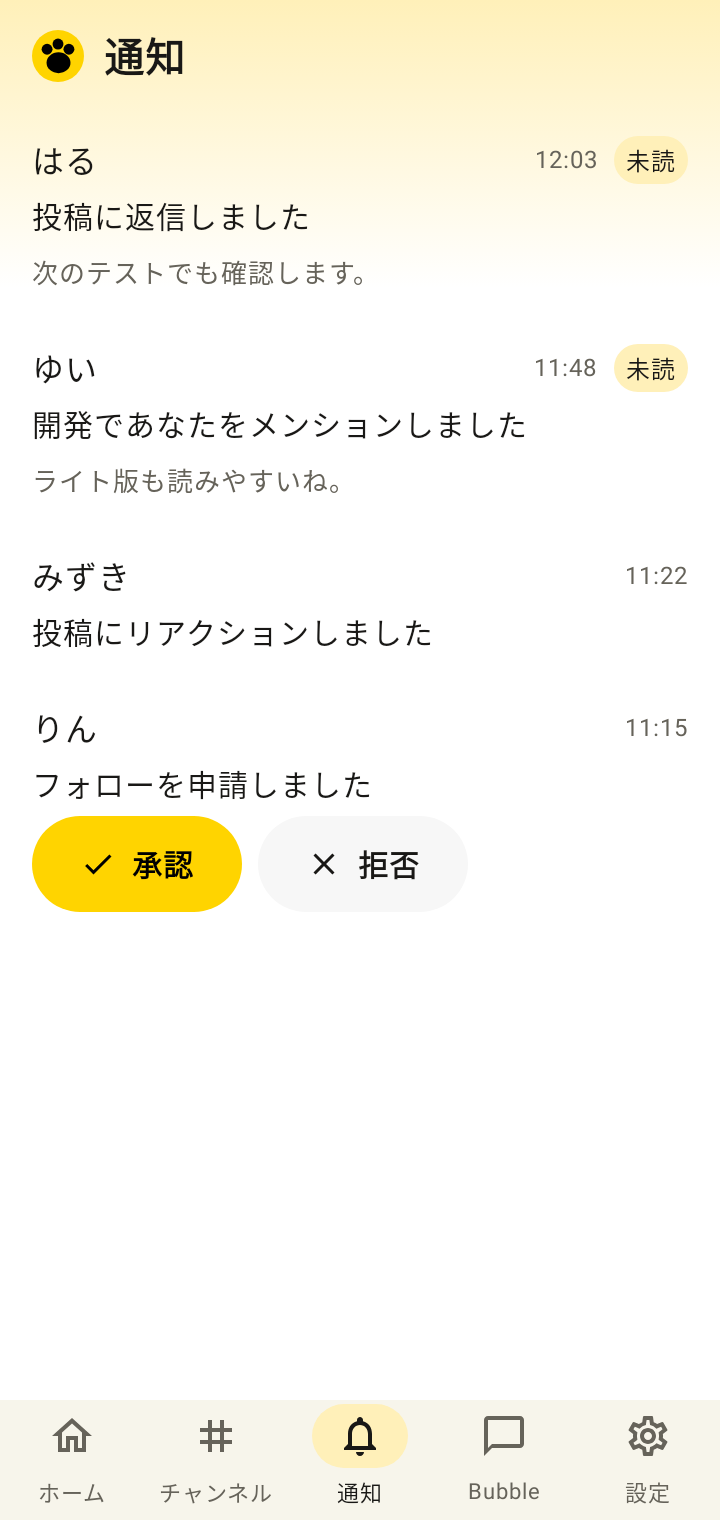
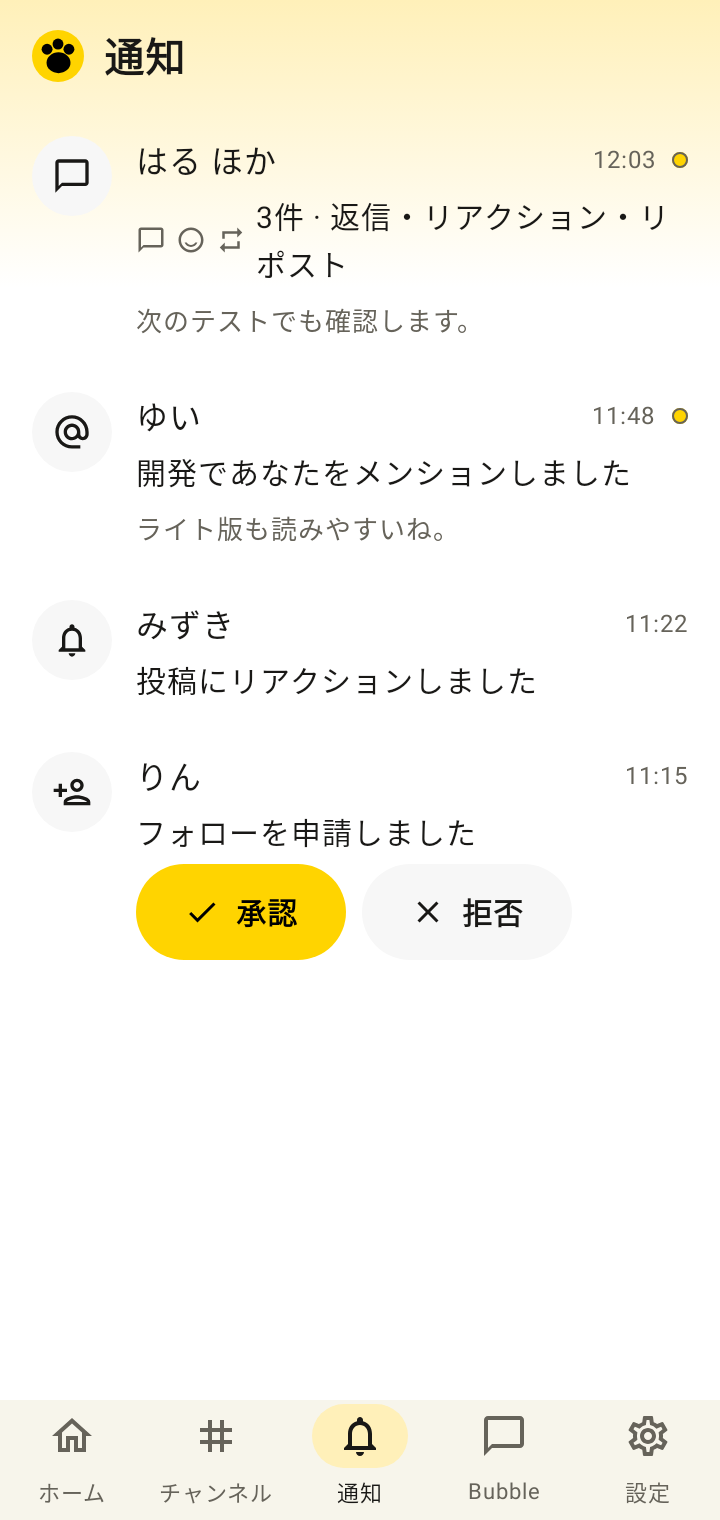
Android の通知を投稿ごとにまとめアイコンと未読ドットを表示する

diff --git a/frontend-compose/androidApp/src/main/kotlin/zoo/android/ui/NotificationPage.kt b/frontend-compose/androidApp/src/main/kotlin/zoo/android/ui/NotificationPage.kt
@@ -1,6 +1,8 @@
 package zoo.android.ui
 
+import androidx.compose.foundation.Image
 import androidx.compose.foundation.background
+import androidx.compose.foundation.border
 import androidx.compose.foundation.clickable
 import androidx.compose.foundation.layout.*
 import androidx.compose.foundation.lazy.LazyColumn
@@ -9,7 +11,13 @@ import androidx.compose.foundation.lazy.rememberLazyListState
 import androidx.compose.foundation.shape.CircleShape
 import androidx.compose.material3.Text
 import androidx.compose.runtime.*
+import androidx.compose.ui.Alignment
 import androidx.compose.ui.Modifier
+import androidx.compose.ui.draw.clip
+import androidx.compose.ui.graphics.ImageBitmap
+import androidx.compose.ui.layout.ContentScale
+import androidx.compose.ui.semantics.contentDescription
+import androidx.compose.ui.semantics.semantics
 import androidx.compose.ui.unit.dp
 import androidx.compose.ui.unit.sp
 import kotlinx.coroutines.delay
@@ -23,13 +31,17 @@ internal data class InboxItem(
     val unread: Boolean,
     val target: String? = null,
     val followActor: String? = null, val followActivity: String? = null,
+    val kinds: List<String> = emptyList(), val avatar: String? = null, val unreadIds: List<String> = emptyList(),
 )
 
+@OptIn(ExperimentalLayoutApi::class)
 @Composable
 internal fun NotificationPage(
     items: List<InboxItem>,
     foreground: Boolean,
     colors: AndroidColors,
+    nextCursor: String?,
+    loadAvatar: suspend (String) -> ImageBitmap?,
     onViewed: (String) -> Unit,
     onOpen: (String) -> Unit,
     loadMore: () -> Unit,
@@ -49,40 +61,65 @@ internal fun NotificationPage(
     }
     val nextPage by rememberUpdatedState(loadMore)
     val lastVisible = items.lastOrNull()?.id?.takeIf { it in visible }
-    LaunchedEffect(lastVisible, foreground) {
-        if (foreground && lastVisible != null) nextPage()
+    LaunchedEffect(lastVisible, foreground, nextCursor) {
+        if (foreground && lastVisible != null && nextCursor != null) nextPage()
     }
     val viewed by rememberUpdatedState(onViewed)
     LazyColumn(state = scroll, modifier = Modifier.fillMaxSize(), contentPadding = PaddingValues(horizontal = 16.dp)) {
         items(items, key = { it.id }) { item ->
             val shouldRead = foreground && item.unread && item.id in visible
-            LaunchedEffect(item.id, shouldRead) {
+            LaunchedEffect(item.id, shouldRead, item.unreadIds) {
                 if (shouldRead) {
                     delay(500)
                     viewed(item.id)
                 }
             }
             val target = item.target
-            Column(Modifier.fillMaxWidth()
+            Row(Modifier.fillMaxWidth()
                 .then(if (target != null) Modifier.clickable { onOpen(target) } else Modifier)
-                .padding(vertical = 12.dp), verticalArrangement = Arrangement.spacedBy(4.dp)) {
-                Row(horizontalArrangement = Arrangement.spacedBy(8.dp)) {
-                    Text(item.author, Modifier.weight(1f), color = colors.foreground, fontWeight = AndroidWeights.userName)
-                    Text(item.time, color = colors.secondary, fontSize = 12.sp)
-                    if (item.unread) {
-                        Text("未読", Modifier.background(colors.headerLight, CircleShape).padding(horizontal = 6.dp),
-                            color = colors.foreground, fontSize = 12.sp)
+                .padding(vertical = 12.dp), horizontalArrangement = Arrangement.spacedBy(12.dp)) {
+                val avatar by key(item.avatar) {
+                    produceState<ImageBitmap?>(null, foreground) {
+                        value = if (foreground) item.avatar?.let { loadAvatar(it) } else null
                     }
                 }
-                Text(item.summary, color = colors.foreground, fontSize = 15.sp)
-                item.detail?.let { Text(it, color = colors.secondary, fontSize = 13.sp) }
-                if (item.followActor != null && item.followActivity != null) {
-                    Row(horizontalArrangement = Arrangement.spacedBy(8.dp)) {
-                        TextAction("承認", colors, icon = UiIcon.Check) { respond(item.followActor, item.followActivity, true) }
-                        TextAction("拒否", colors, icon = UiIcon.Close, style = TextActionStyle.Neutral) { respond(item.followActor, item.followActivity, false) }
+                Box(Modifier.size(40.dp).clip(CircleShape).background(colors.inputSurface),
+                    contentAlignment = Alignment.Center) {
+                    val bitmap = avatar
+                    if (bitmap != null) Image(bitmap, null, Modifier.fillMaxSize(), contentScale = ContentScale.Crop)
+                    else UiGlyph(item.kinds.firstOrNull().activityIcon(), colors.foreground, iconSize = 20.dp)
+                }
+                Column(Modifier.weight(1f), verticalArrangement = Arrangement.spacedBy(4.dp)) {
+                    Row(horizontalArrangement = Arrangement.spacedBy(8.dp), verticalAlignment = Alignment.CenterVertically) {
+                        Text(item.author, Modifier.weight(1f), color = colors.foreground, fontWeight = AndroidWeights.userName)
+                        Text(item.time, color = colors.secondary, fontSize = 12.sp)
+                        if (item.unread) Box(Modifier.size(8.dp).background(colors.accent, CircleShape)
+                            .border(1.dp, colors.secondary, CircleShape).semantics { contentDescription = "未読" })
+                    }
+                    Row(verticalAlignment = Alignment.CenterVertically, horizontalArrangement = Arrangement.spacedBy(5.dp)) {
+                        if (avatar != null || item.kinds.size > 1) {
+                            item.kinds.forEach { UiGlyph(it.activityIcon(), colors.secondary, iconSize = 15.dp) }
+                        }
+                        Text(item.summary, color = colors.foreground, fontSize = 15.sp)
+                    }
+                    item.detail?.let { Text(it, color = colors.secondary, fontSize = 13.sp) }
+                    if (item.followActor != null && item.followActivity != null) {
+                        androidx.compose.foundation.layout.FlowRow(horizontalArrangement = Arrangement.spacedBy(8.dp)) {
+                            TextAction("承認", colors, icon = UiIcon.Check) { respond(item.followActor, item.followActivity, true) }
+                            TextAction("拒否", colors, icon = UiIcon.Close, style = TextActionStyle.Neutral) { respond(item.followActor, item.followActivity, false) }
+                        }
                     }
                 }
             }
         }
     }
+}
+
+private fun String?.activityIcon(): UiIcon = when (this) {
+    "like" -> UiIcon.Emoji
+    "reply", "dm" -> UiIcon.Bubble
+    "mention" -> UiIcon.AlternateEmail
+    "repost" -> UiIcon.Repost
+    "follow_request", "follow_accepted" -> UiIcon.UserAdd
+    else -> UiIcon.Bell
 }

diff --git a/frontend-compose/src/commonMain/kotlin/zoo/NotificationInbox.kt b/frontend-compose/src/commonMain/kotlin/zoo/NotificationInbox.kt
@@ -8,42 +8,82 @@ data class NotificationDisplay(
     val time: String,
     val unread: Boolean,
     val target: String? = null,
-    val followActor: String? = null, val followActivity: String? = null,
+    val followActor: String? = null,
+    val followActivity: String? = null,
+    val kinds: List<String> = emptyList(),
+    val avatar: String? = null,
+    val unreadIds: List<String> = emptyList(),
 )
 
+private fun UnifiedNotificationEntry.representative(): Row = item ?: channel!!.first()
+
+internal fun inboxGroups(entries: List<UnifiedNotificationEntry>): Map<String, List<UnifiedNotificationEntry>> =
+    entries.groupBy { entry ->
+        val row = entry.representative()
+        val target = if (entry.item == null) row.text("message_id")
+            else row.text("target_post_id").ifBlank { row.text("post_id") }
+        if (target.isBlank()) entry.key else "post-group:$target"
+    }
+
 class NotificationInbox(private val session: Session) {
+    val nextCursor: String? get() = session.activityPubNotifications.nextCursor
+
     fun snapshot(): List<NotificationDisplay> {
         val users = session.repo.users.rows.value.associateBy { it.text("id") }
-        return feed().entries.map { entry ->
-            val item = entry.item ?: entry.channel!!.first()
+        return inboxGroups(feed().entries).map { (id, entries) ->
+            val latest = entries.first()
+            val item = latest.representative()
+            val rows = entries.flatMap { it.channel ?: listOf(it.representative()) }
+            val actor = item.nested("display_data").nested("actor")
             val actorId = item.text("actor_id").removePrefix("local:")
-            val name = item.text("display_name").ifBlank {
-                users[actorId]?.let { it.text("display_name").ifBlank { it.text("user_name") } }
-                    .orEmpty().ifBlank { actorId }
+            val name = item.text("display_name").ifBlank { actor.text("display_name") }.ifBlank {
+                users[actorId]?.let(::author).orEmpty().ifBlank { actor.text("user_name").ifBlank { actorId } }
             }
-            val kind = when (item.text("kind").ifBlank { item.text("notification_type") }) {
-                "reaction" -> "like"
-                else -> item.text("kind").ifBlank { item.text("notification_type") }
+            val kinds = rows.map(::noticeKind).distinct()
+            val summary = if (rows.size > 1) "${rows.size}件 · " + kinds.joinToString("・", transform = ::activityLabel)
+                else {
+                    val key = "home.notificationKinds.${kinds.first()}"
+                    session.t(key).takeUnless { it == key } ?: activityLabel(kinds.first())
+                }
+            val unreadIds = entries.flatMap { entry ->
+                (entry.channel ?: listOf(entry.representative())).filterNot { it.flag("is_read") }.map { it.text("id") }
             }
-            val summary = session.t("home.notificationKinds.$kind").takeUnless {
-                it == "home.notificationKinds.$kind"
-            } ?: session.t("notifications.title")
+            val avatar = item.nested("avatar").text("image_id").takeIf { it.matches(Regex("[a-f0-9]{64}")) }
+                ?.let { "/api/activitypub/emoji-images/$it" }
+                ?: actor.text("avatar_url").ifBlank { users[actorId]?.text("avatar_url").orEmpty() }
+                    .takeIf { publicUrl(it)?.protocol?.name == "https" }
             NotificationDisplay(
-                entry.key, name, summary, item.text("content").ifBlank { null },
-                session.platform.notificationTime(entry.createdAt),
-                entry.channel?.any { !it.flag("is_read") } ?: !item.flag("is_read"),
-                item.text("channel_id").takeIf { it.isNotBlank() }
+                id, if (rows.size > 1) "$name ほか".takeIf { rows.map { it.text("actor_id").removePrefix("local:") }.distinct().size > 1 }
+                    ?: name else name,
+                summary, item.text("content").ifBlank { item.nested("display_data").nested("message").text("content") }
+                    .ifBlank { null },
+                session.platform.notificationTime(latest.createdAt), unreadIds.isNotEmpty(),
+                item.text("channel_id").takeIf { it.isNotBlank() && item.text("message_id").isNotBlank() }
                     ?.let { "/channels/$it?message=${item.text("message_id")}" }
                     ?: item.text("post_id").takeIf { it.isNotBlank() }?.let { "post:$it" },
-                item.text("actor_id").takeIf { kind == "follow_request" && item.flag("pending") && it.isNotBlank() },
-                item.text("activity_id").takeIf { kind == "follow_request" && item.flag("pending") && it.isNotBlank() },
+                item.text("actor_id").takeIf { noticeKind(item) == "follow_request" && item.flag("pending") && it.isNotBlank() },
+                item.text("activity_id").takeIf { noticeKind(item) == "follow_request" && item.flag("pending") && it.isNotBlank() },
+                kinds, avatar, unreadIds,
             )
         }
     }
 
+    private fun noticeKind(row: Row): String = row.text("kind").ifBlank { row.text("notification_type") }
+        .let { if (it == "reaction") "like" else it }
+
+    private fun activityLabel(kind: String): String = when (kind) {
+        "like" -> "リアクション"
+        "reply" -> "返信"
+        "mention" -> "メンション"
+        "repost" -> "リポスト"
+        "dm" -> "ダイレクトメッセージ"
+        "follow_request", "follow_accepted" -> "フォロー"
+        else -> session.t("notifications.title")
+    }
+
     fun viewed(id: String) {
         if (!session.env.visible || !session.env.focused || !session.env.online) return
-        feed().entries.firstOrNull { it.key == id }?.let(session.notificationReads::viewed)
+        inboxGroups(feed().entries)[id]?.forEach(session.notificationReads::viewed)
     }
 
     private fun feed(): UnifiedNotificationFeed {

diff --git a/frontend-compose/androidApp/src/main/kotlin/zoo/android/ui/AndroidScreens.kt b/frontend-compose/androidApp/src/main/kotlin/zoo/android/ui/AndroidScreens.kt
@@ -74,7 +74,7 @@ internal data class ChannelSection(val label: String, val channels: List<Channel
 internal sealed interface AndroidScreen {
     data class Home(val posts: List<TimelineItem>, val timeline: String? = null, val loadOlder: Boolean = false) : AndroidScreen
     data class Channels(val sections: List<ChannelSection>) : AndroidScreen
-    data class Notifications(val items: List<InboxItem>) : AndroidScreen
+    data class Notifications(val items: List<InboxItem>, val nextCursor: String? = null) : AndroidScreen
     data class Bubble(val entries: List<TimelineItem>, val input: InputState, val participants: List<String> = emptyList()) : AndroidScreen
     data class Settings(val groups: List<SettingsGroup>) : AndroidScreen
     data class Conversation(
@@ -177,6 +177,7 @@ internal fun AndroidScreens(
     language: String? = null,
     interaction: AndroidInteractionSettings = AndroidInteractionSettings(),
     remoteAudioLevel: () -> Float = { 0f },
+    loadNotificationAvatar: suspend (String) -> ImageBitmap? = { null },
     photo: @Composable (RecentPhoto, Modifier) -> Unit,
 ) {
     val systemHaptics = LocalHapticFeedback.current
@@ -202,11 +203,11 @@ internal fun AndroidScreens(
             if (visibleScreen is AndroidScreen.Conversation) {
                 conversationState.SaveableStateProvider(visibleScreen.id) {
                     RenderAndroidScreen(visibleScreen, dark, foreground && visibleScreen == screen,
-                        dispatch, language, interaction, remoteAudioLevel, photo)
+                        dispatch, language, interaction, remoteAudioLevel, loadNotificationAvatar, photo)
                 }
             } else {
                 RenderAndroidScreen(visibleScreen, dark, foreground && visibleScreen == screen,
-                    dispatch, language, interaction, remoteAudioLevel, photo)
+                    dispatch, language, interaction, remoteAudioLevel, loadNotificationAvatar, photo)
             }
         }
     }
@@ -228,6 +229,7 @@ private fun RenderAndroidScreen(
     language: String?,
     interaction: AndroidInteractionSettings,
     remoteAudioLevel: () -> Float,
+    loadNotificationAvatar: suspend (String) -> ImageBitmap?,
     photo: @Composable (RecentPhoto, Modifier) -> Unit,
 ) {
     val top = when (screen) {
@@ -246,6 +248,7 @@ private fun RenderAndroidScreen(
             is AndroidScreen.Home -> HomePage(screen, colors, dispatch)
             is AndroidScreen.Channels -> ChannelPage(screen, colors, dispatch)
             is AndroidScreen.Notifications -> NotificationPage(screen.items, foreground, colors,
+                nextCursor = screen.nextCursor, loadAvatar = loadNotificationAvatar,
                 onViewed = { dispatch(AndroidUiAction.ViewedNotification(it)) },
                 onOpen = { dispatch(AndroidUiAction.OpenNotification(it)) },
                 loadMore = { dispatch(AndroidUiAction.LoadMoreNotifications) },

diff --git a/frontend-compose/ui-preview/src/test/kotlin/zoo/android/ui/AndroidSamplesTest.kt b/frontend-compose/ui-preview/src/test/kotlin/zoo/android/ui/AndroidSamplesTest.kt
@@ -61,11 +61,12 @@ class AndroidSamplesTest {
             ChannelSection("ダイレクトメッセージ", listOf(ChannelItem("dm", "はる", isUserName = true))),
         ))
         val inbox = AndroidScreen.Notifications(listOf(
-            InboxItem("reply", "はる", "投稿に返信しました", "次のテストでも確認します。", "12:03", true),
-            InboxItem("mention", "ゆい", "開発であなたをメンションしました", "ライト版も読みやすいね。", "11:48", true),
+            InboxItem("reply", "はる ほか", "3件 · 返信・リアクション・リポスト", "次のテストでも確認します。", "12:03", true,
+                kinds = listOf("reply", "like", "repost"), unreadIds = listOf("reply", "reaction", "repost")),
+            InboxItem("mention", "ゆい", "開発であなたをメンションしました", "ライト版も読みやすいね。", "11:48", true, kinds = listOf("mention")),
             InboxItem("reaction", "みずき", "投稿にリアクションしました", null, "11:22", false),
             InboxItem("follow", "りん", "フォローを申請しました", null, "11:15", false,
-                followActor = "https://example.test/rin", followActivity = "https://example.test/follow"),
+                followActor = "https://example.test/rin", followActivity = "https://example.test/follow", kinds = listOf("follow_request")),
         ))
         val conversation = AndroidScreen.Conversation("dev", "開発", "Zoo の開発と通話のテストについて相談するチャンネルです。",
             posts, InputState("確認しました。"))
@@ -166,6 +167,11 @@ class AndroidSamplesTest {
                     check(root.right - bounds.right == 4.dp && root.bottom - bounds.bottom == 4.dp) {
                         "Expected 4dp between send action and screen edges: $bounds / $root"
                     }
+                }
+                if (name == "notifications") {
+                    ui.onNodeWithText("未読").assertDoesNotExist()
+                    ui.onNodeWithText("3件 · 返信・リアクション・リポスト").assertIsDisplayed()
+                    ui.onAllNodesWithContentDescription("未読", useUnmergedTree = true).assertCountEquals(2)
                 }
                 if (name == "home") {
                     val nameBounds = ui.onNodeWithText("@haru", useUnmergedTree = true).getUnclippedBoundsInRoot()

diff --git a/frontend-compose/androidApp/src/main/kotlin/zoo/android/ui/UiIcon.kt b/frontend-compose/androidApp/src/main/kotlin/zoo/android/ui/UiIcon.kt
@@ -71,6 +71,7 @@ internal enum class UiIcon(val pathData: String) {
     Download("M19 9h-4V3H9v6H5l7 7 7-7zm-8 2V5h2v6h1.17L12 13.17 9.83 11H11zm-6 7h14v2H5z"),
     Upload("M9 16h6v-6h4l-7-7-7 7h4v6zm3-10.17L14.17 8H13v6h-2V8H9.83L12 5.83zM5 18h14v2H5z"),
     UserAdd("M15 12c2.21 0 4-1.79 4-4s-1.79-4-4-4-4 1.79-4 4 1.79 4 4 4zm0-6c1.1 0 2 .9 2 2s-.9 2-2 2-2-.9-2-2 .9-2 2-2zm0 8c-2.67 0-8 1.34-8 4v2h16v-2c0-2.66-5.33-4-8-4zm-6 4c.22-.72 3.31-2 6-2 2.7 0 5.8 1.29 6 2H9zm-3-3v-3h3v-2H6V7H4v3H1v2h3v3z"),
+    AlternateEmail("M12 1.95c-5.52 0-10 4.48-10 10s4.48 10 10 10h5v-2h-5c-4.34 0-8-3.66-8-8s3.66-8 8-8 8 3.66 8 8v1.43c0 .79-.71 1.57-1.5 1.57s-1.5-.78-1.5-1.57v-1.43c0-2.76-2.24-5-5-5s-5 2.24-5 5 2.24 5 5 5c1.38 0 2.64-.56 3.54-1.47.65.89 1.77 1.47 2.96 1.47 1.97 0 3.5-1.6 3.5-3.57v-1.43c0-5.52-4.48-10-10-10zm0 13c-1.66 0-3-1.34-3-3s1.34-3 3-3 3 1.34 3 3-1.34 3-3 3z"),
     Archive("M20.54 5.23l-1.39-1.68C18.88 3.21 18.47 3 18 3H6c-.47 0-.88.21-1.16.55L3.46 5.23C3.17 5.57 3 6.02 3 6.5V19c0 1.1.9 2 2 2h14c1.1 0 2-.9 2-2V6.5c0-.48-.17-.93-.46-1.27zM6.24 5h11.52l.81.97H5.44l.8-.97zM5 19V8h14v11H5zm8.45-9h-2.9v3H8l4 4 4-4h-2.55z"),
     Public("M12 2C6.48 2 2 6.48 2 12s4.48 10 10 10 10-4.48 10-10S17.52 2 12 2zM4 12c0-.61.08-1.21.21-1.78L8.99 15v1c0 1.1.9 2 2 2v1.93C7.06 19.43 4 16.07 4 12zm13.89 5.4c-.26-.81-1-1.4-1.9-1.4h-1v-3c0-.55-.45-1-1-1h-6v-2h2c.55 0 1-.45 1-1V7h2c1.1 0 2-.9 2-2v-.41C17.92 5.77 20 8.65 20 12c0 2.08-.81 3.98-2.11 5.4z"),
     Unlisted("M18 8h-1V6c0-2.76-2.24-5-5-5S7 3.24 7 6h2c0-1.66 1.34-3 3-3s3 1.34 3 3v2H6c-1.1 0-2 .9-2 2v10c0 1.1.9 2 2 2h12c1.1 0 2-.9 2-2V10c0-1.1-.9-2-2-2zm0 12H6V10h12v10zm-6-3c1.1 0 2-.9 2-2s-.9-2-2-2-2 .9-2 2 .9 2 2 2z"),

diff --git a/frontend-compose/src/commonTest/kotlin/zoo/UnifiedNotificationsTest.kt b/frontend-compose/src/commonTest/kotlin/zoo/UnifiedNotificationsTest.kt
@@ -3,6 +3,19 @@ package zoo
 import kotlin.test.*
 
 class UnifiedNotificationsTest {
+    @Test
+    fun inboxGroupsRepliesAndReactionsByPostAndKeepsFollowRequestsSeparate() {
+        val notices = listOf(
+            UnifiedNotificationEntry("reply", "3", item = obj("id" to "r", "post_id" to "reply", "target_post_id" to "root")),
+            UnifiedNotificationEntry("reaction", "2", channel = listOf(obj("id" to "a", "message_id" to "root"))),
+            UnifiedNotificationEntry("repost", "1", item = obj("id" to "p", "post_id" to "root")),
+            UnifiedNotificationEntry("follow", "0", item = obj("id" to "f", "post_id" to "")),
+        )
+        val groups = inboxGroups(notices)
+        assertEquals(listOf("post-group:root", "follow"), groups.keys.toList())
+        assertEquals(listOf("reply", "reaction", "repost"), groups.getValue("post-group:root").map { it.key })
+    }
+
     private fun local(id: String, time: String, read: Boolean = false): Row = obj("id" to id, "user_id" to "me", "actor_id" to "alice", "channel_id" to "channel", "message_id" to "message", "notification_type" to "reaction", "is_read" to read, "created_at" to time)
     private fun remote(id: String, time: String, actor: String = "https://peer/alice", read: Boolean = false): Row = obj("id" to id, "actor_id" to actor, "post_id" to "message", "kind" to "like", "is_read" to read, "created_at" to time)
 

diff --git a/frontend-compose/androidApp/src/main/kotlin/zoo/android/ConnectedScreens.kt b/frontend-compose/androidApp/src/main/kotlin/zoo/android/ConnectedScreens.kt
@@ -295,7 +295,12 @@ internal fun ConnectedScreens(
             }
         },
         language = env.locale, interaction = state.interaction.snapshot(),
-        remoteAudioLevel = { phone.remoteAudioLevel }) { item, modifier ->
+        remoteAudioLevel = { phone.remoteAudioLevel },
+        loadNotificationAvatar = { url ->
+            try { session.imageBitmap(url) }
+            catch (cancelled: CancellationException) { throw cancelled }
+            catch (_: Exception) { null }
+        }) { item, modifier ->
         val image by produceState<ImageBitmap?>(null, item.id, state.photoBytes[item.id], state.postFiles.items.size) {
             value = state.postFiles.items.find { it.file.text("id") == item.id }?.bitmap
                 ?: state.photoBytes[item.id]?.let { platform.imageFrames(it).firstOrNull() }

diff --git a/frontend-compose/androidApp/src/main/kotlin/zoo/android/NotificationInboxBinding.kt b/frontend-compose/androidApp/src/main/kotlin/zoo/android/NotificationInboxBinding.kt
@@ -7,7 +7,9 @@ import zoo.android.ui.InboxItem
 
 internal class NotificationInboxBinding(private val inbox: NotificationInbox) {
     fun screen(): AndroidScreen.Notifications = AndroidScreen.Notifications(
-        inbox.snapshot().map { InboxItem(it.id, it.author, it.summary, it.snippet, it.time, it.unread, it.target, it.followActor, it.followActivity) },
+        inbox.snapshot().map { InboxItem(it.id, it.author, it.summary, it.snippet, it.time, it.unread, it.target,
+            it.followActor, it.followActivity, it.kinds, it.avatar, it.unreadIds) },
+        nextCursor = inbox.nextCursor,
     )
 
     fun dispatch(action: AndroidUiAction.ViewedNotification) {
